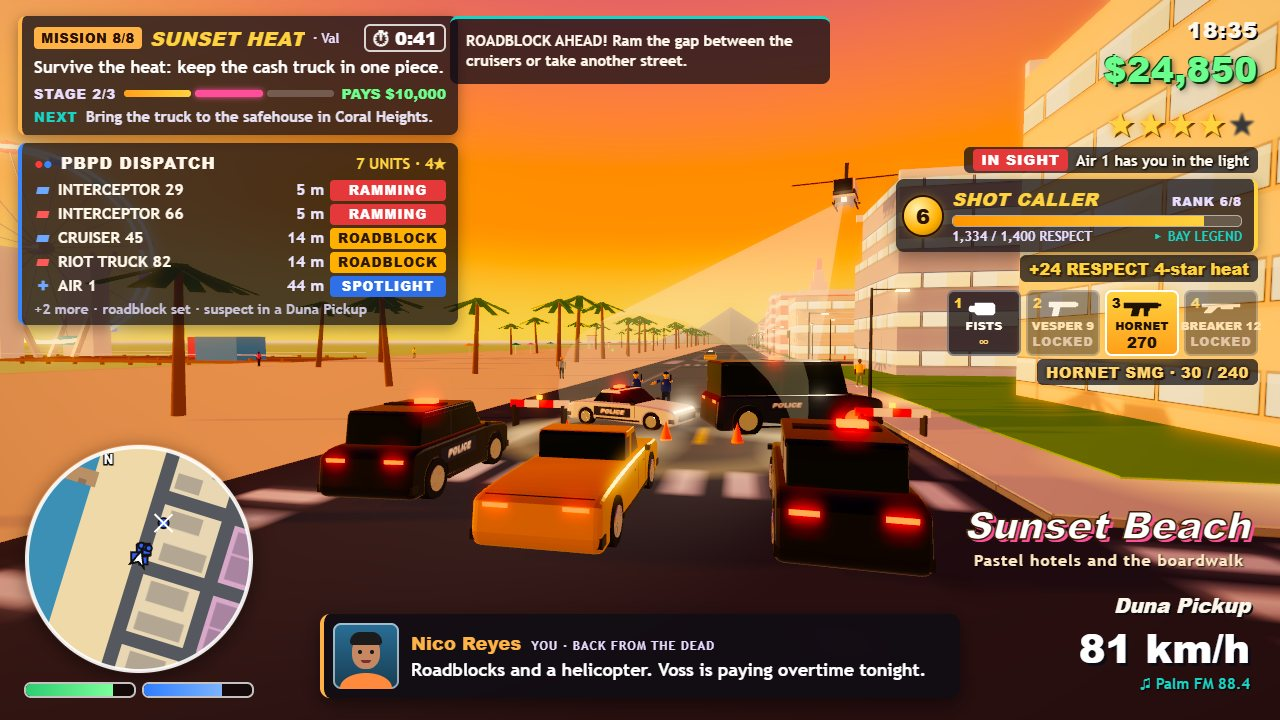
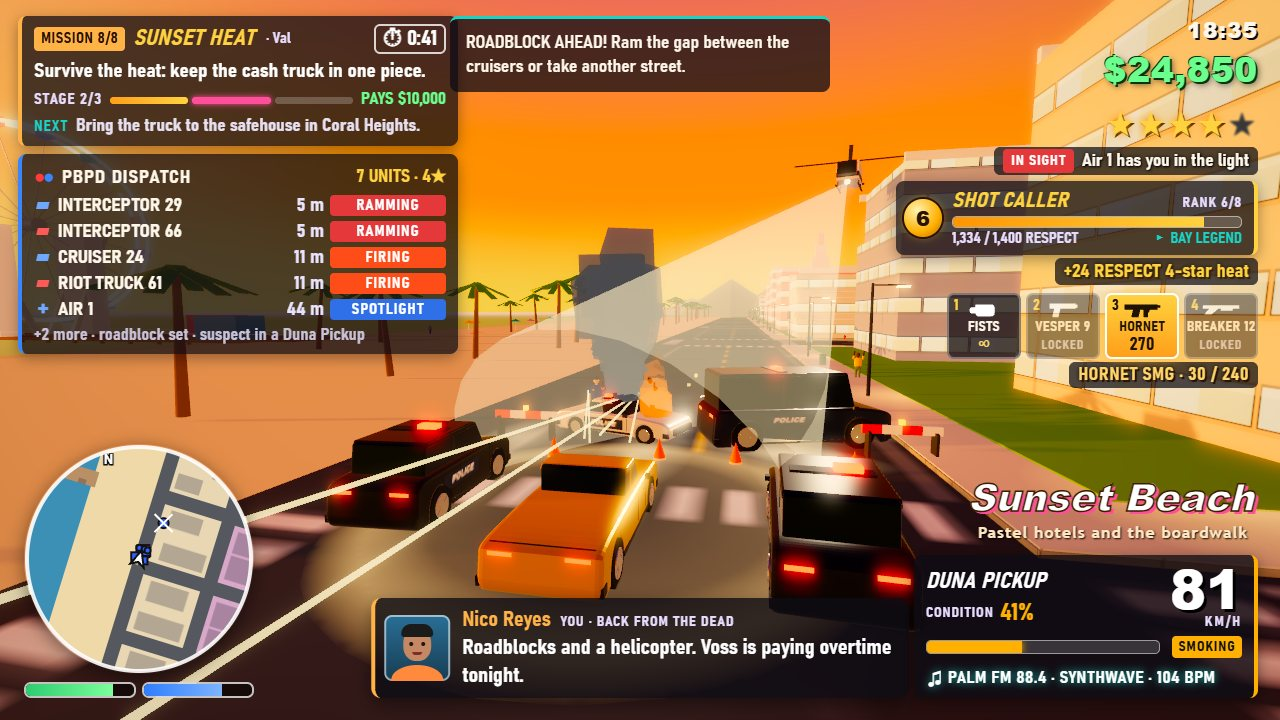
New screenshots with the car block, the burning roadblock cruiser, Air 1's beam on the truck and the closer gunfight; the car block's speed reads bigger and the district name sits above it; shots.json says what each shows

diff --git a/game/style.css b/game/style.css
@@ -64,7 +64,7 @@ html, body { margin: 0; height: 100%; overflow: hidden; background: #f4c9a6; }
 .hud-banner.failed .sub { color: #fff; font-size: 22px; text-shadow: 2px 2px 0 #000; }
 .hud-toast { position: absolute; top: 16px; left: 50%; margin-left: -190px; width: 380px; box-sizing: border-box; padding: 12px 16px; background: rgba(13, 11, 20, 0.75); border-radius: 8px; border-top: 3px solid var(--teal); font: 600 condensed 18px/1.35 var(--narrow); opacity: 0; transform: translateY(-8px); transition: opacity 0.25s, transform 0.25s; }
 .hud-toast.show { opacity: 1; transform: none; }
-.hud-district { position: absolute; right: 26px; bottom: 168px; text-align: right; opacity: 0; transition: opacity 0.6s; }
+.hud-district { position: absolute; right: 26px; bottom: 178px; text-align: right; opacity: 0; transition: opacity 0.6s; }
 .hud-district.show { opacity: 1; }
 .hud-district .name { font: 900 38px var(--display); font-style: italic; color: #fff; -webkit-text-stroke: 1.5px #3b1d00; text-shadow: 3px 3px 0 #ff4f9a; }
 .hud-district .tag { font: 700 16px var(--text); color: #ffe7c2; text-shadow: 1px 1px 2px #000; }
@@ -75,7 +75,7 @@ html, body { margin: 0; height: 100%; overflow: hidden; background: #f4c9a6; }
 .hud-car.red { --cond: #ff4a3d; }
 .hud-car .name { grid-area: name; align-self: end; font: 900 condensed 22px var(--narrow); font-style: italic; letter-spacing: 0.5px; color: #fff; white-space: nowrap; overflow: hidden; text-overflow: ellipsis; }
 .hud-car .speed { grid-area: speed; display: flex; flex-direction: column; align-items: flex-end; line-height: 1; }
-.hud-car .speed .n { font: 900 44px/1 var(--display); color: #fff; text-shadow: 3px 3px 0 #000; }
+.hud-car .speed .n { font: 900 54px/0.95 var(--display); color: #fff; text-shadow: 3px 3px 0 #000; }
 .hud-car .speed .u { font: 900 condensed 14px var(--narrow); letter-spacing: 2px; color: #e8dcff; }
 .hud-car .cond { grid-area: cond; display: flex; align-items: center; gap: 6px; white-space: nowrap; overflow: hidden; }
 .hud-car .cond .k { font: 900 condensed 14px var(--narrow); letter-spacing: 1px; color: #e8dcff; }
